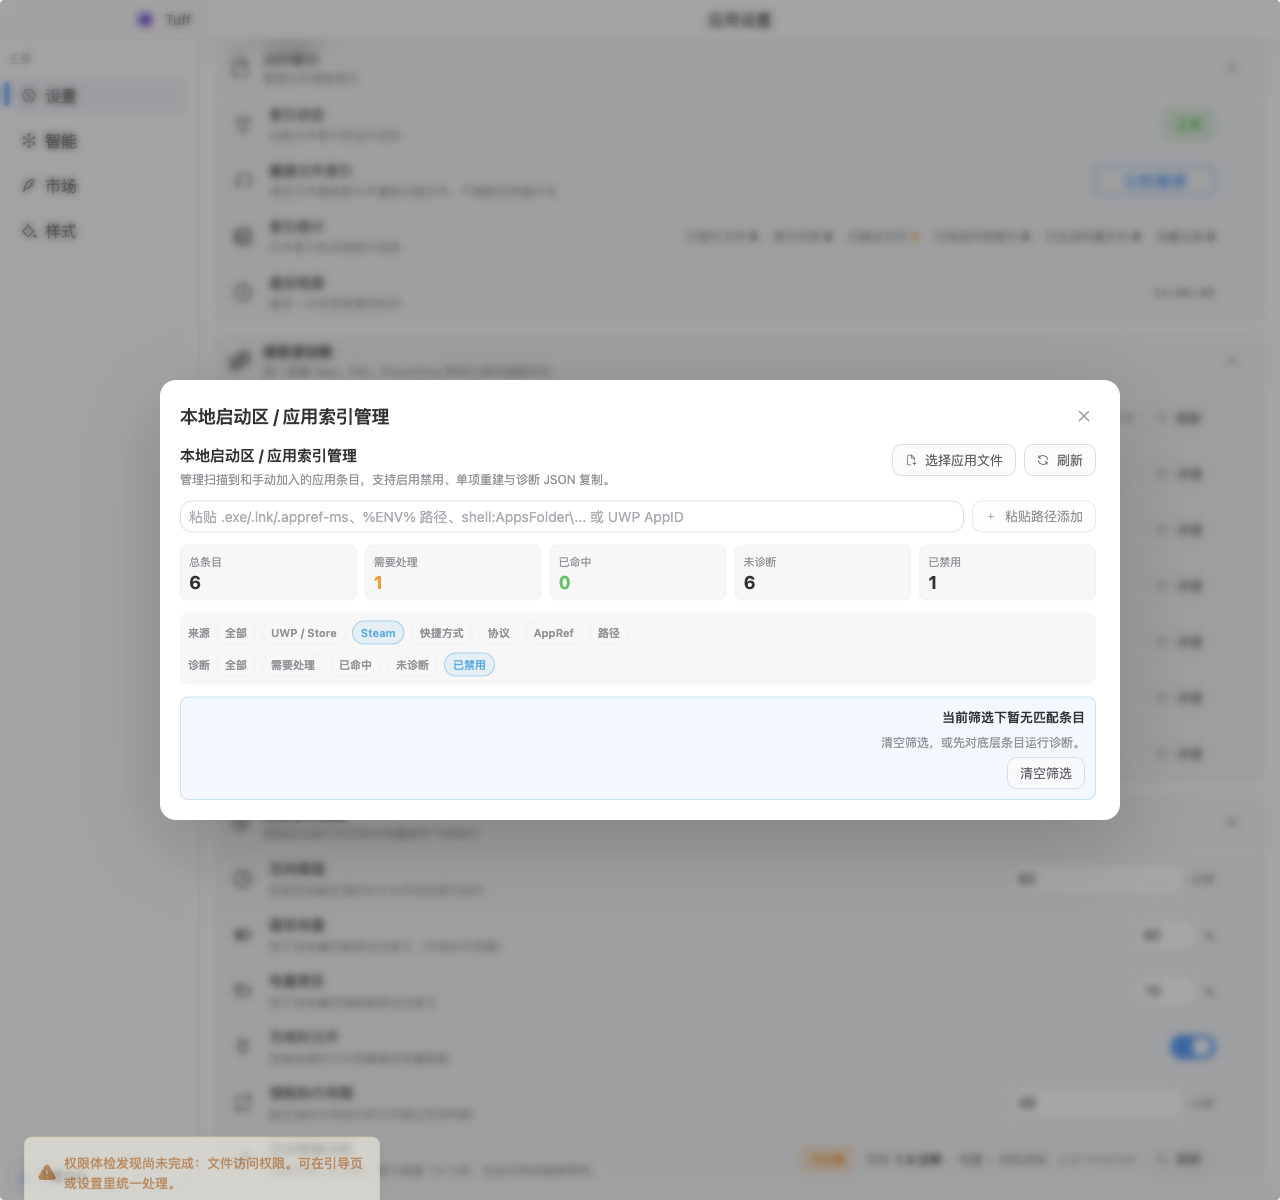
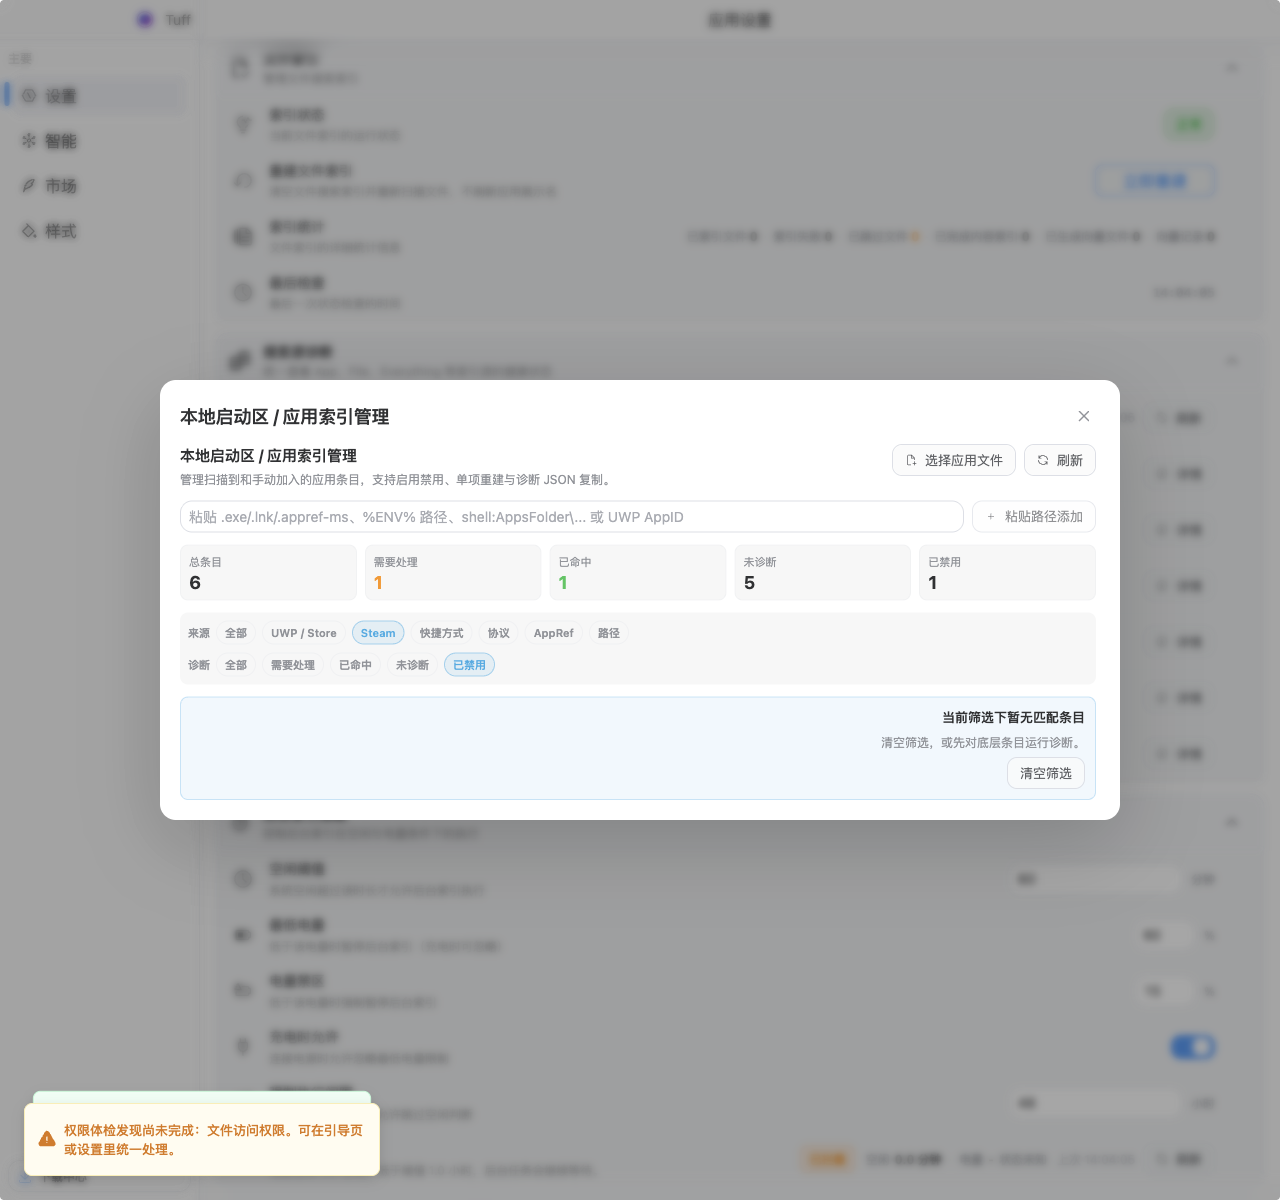
test(core-app): refresh app index workbench evidence

Changed region(s): [[0.0, 0.8942, 0.3125, 1.0]]

diff --git a/apps/core-app/src/renderer/src/views/assistant/VoicePanel.vue b/apps/core-app/src/renderer/src/views/assistant/VoicePanel.vue
@@ -530,8 +530,11 @@ onBeforeUnmount(() => {
   border-radius: 10px;
   padding: 9px 12px;
   font-size: 12px;
-  line-height: 1;
+  line-height: 1.2;
   cursor: pointer;
+  min-height: 32px;
+  max-width: 150px;
+  white-space: normal;
 }
 
 .secondary-btn {
